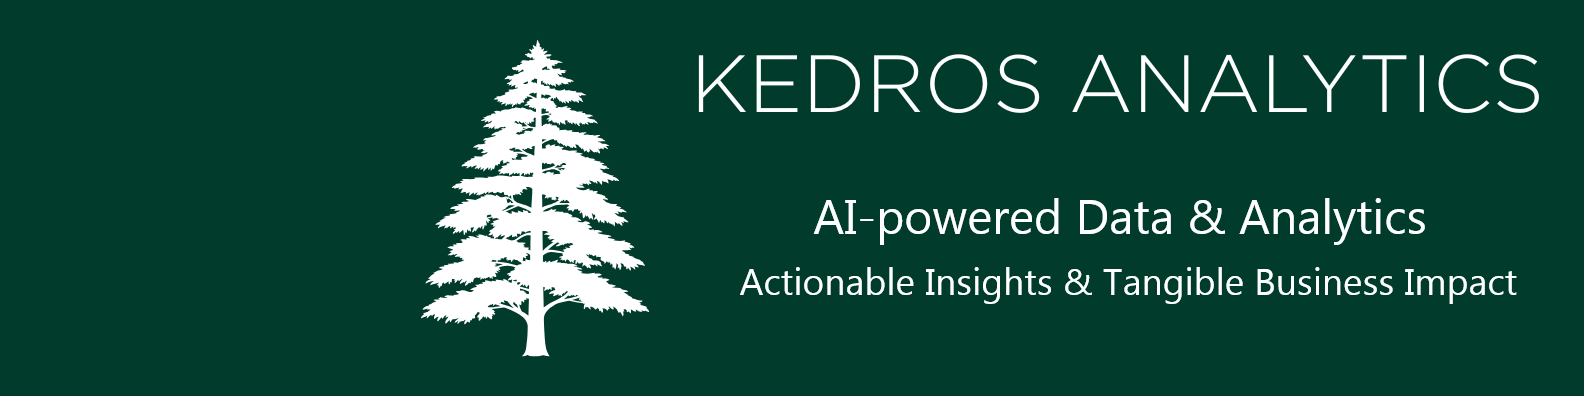
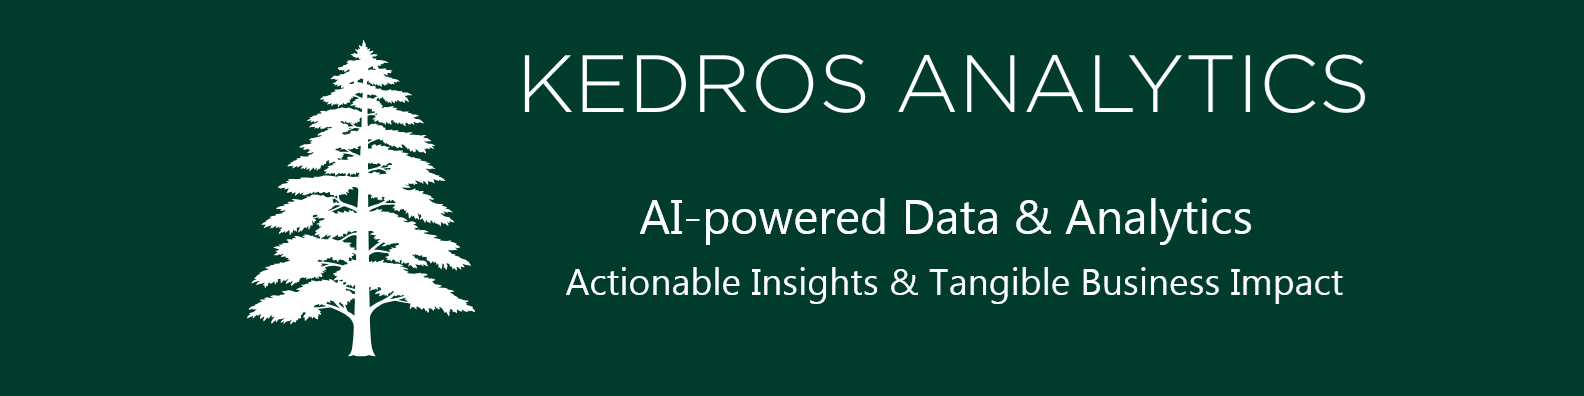
added hero section and rearranged other sections

Changed region(s): [[0.1547, 0.1212, 0.9899, 0.9091]]

diff --git a/index.html b/index.html
@@ -29,6 +29,18 @@
 	</div>
 </header>
 
+<!-- Hero -->
+<section class="k-hero">
+	<div class="k-container k-hero-container">
+		<h1>Turn your data into your sharpest competitive edge</h1>
+		<p>I help organizations build reliable data foundations, surface the insights that matter, and put AI to work &mdash; so every decision is faster, smarter, and backed by evidence.</p>
+		<div class="k-hero-actions">
+			<a class="k-btn k-btn--outline" href="https://outlook.office.com/bookwithme/user/[email redacted]/meetingtype/SVRwCe7HMUGxuT6WGxi68g2?anonymous&amp;ep=mlink">Book a Call</a>
+			<a class="k-btn k-btn--outline" href="assets/Value Proposition.pdf">Download the Value Proposition (PDF)</a>
+		</div>
+	</div>
+</section>
+
 <!-- Main -->
 <div id="main">
 
@@ -55,72 +67,11 @@
 	<hr class="k-divider" />
 
 	<!-- About -->
-	<section class="k-section">
+	<section class="k-section k-section--tint">
 		<div class="k-container">
 			<div class="k-about">
 				<img class="k-avatar" src="images/Matt_highlights.jpg" alt="Matt Protopapas" />
 				<p>I'm <a href="images/Matt_highlights.jpg">Matt Protopapas</a>, an independent Data &amp; AI consultant and founder of Kedros Analytics. With extensive experience delivering analytics, business intelligence, and data platform solutions for European organizations, I help businesses turn data into actionable insights and measurable value.</p>
-			</div>
-		</div>
-	</section>
-
-	<!-- CTA -->
-	<section class="k-section k-section--tint k-cta">
-		<div class="k-container">
-			<a class="k-btn" href="assets/Value Proposition.pdf">Download the Value Proposition (PDF)</a>
-		</div>
-	</section>
-
-	<hr class="k-divider" />
-
-	<!-- Corporate Insights + Free Tools, side by side -->
-	<section class="k-section">
-		<div class="k-container">
-			<div class="k-two-col">
-
-				<!-- Corporate insights -->
-				<div class="k-col k-col-insights">
-					<div class="k-col-head">
-						<h2>Corporate insights</h2>
-						<!--<p>Effective data management practices have always been a prerequisite for generating meaningful insights through reporting and analytics. In the AI era, their importance is even greater, as the quality of outcomes delivered by AI agents and bots depends heavily on the quality of the underlying data.</p>
-						<p>By completing the 10 multiple-choice questions below, you can download my free "<i>5+1 Barriers to Data-Driven Decision Making</i>" e-book and receive a personalized list of recommendations for your company.</p>-->
-					</div>
-					<div class="k-insights-form">
-						<iframe width="100%" height="610" src="https://forms.office.com/Pages/ResponsePage.aspx?id=HijW11PShkS83DK9VRjiZALLVxnypjBCufpXbAo__X5URFY5ME5KVktIQTZaT0o0S0Y3MzdSRDQ5QS4u&embed=true" frameborder="0" marginwidth="0" marginheight="0" style="border: none; max-width:100%; max-height:100vh" allowfullscreen webkitallowfullscreen mozallowfullscreen msallowfullscreen></iframe>
-					</div>
-				</div>
-
-				<!-- Free tools for SMEs -->
-				<div class="k-col k-col-tools">
-					<div class="k-col-head">
-						<h2>Free tools for SMEs</h2>
-						<p>Practical, ready-to-use Python &amp; Excel tools you can download and adapt to your own business today.</p>
-					</div>
-					<div class="k-tool-list">
-						<a class="k-tool-card" href="https://github.com/MattProtopapas/Inventory-Control-Demo">
-							<img src="images/chart_arrow.jpg" alt="" />
-							<div>
-								<h3>Inventory Control</h3>
-								<p>Python &amp; Excel demo to optimize the inventory in your warehouses.</p>
-							</div>
-						</a>
-						<a class="k-tool-card" href="https://github.com/MattProtopapas/Market-Basket-Analysis-Demo">
-							<img src="images/brain.jpg" alt="" />
-							<div>
-								<h3>Market Basket Analysis</h3>
-								<p>Python &amp; Excel demo to detect which products are bought together.</p>
-							</div>
-						</a>
-						<a class="k-tool-card" href="https://github.com/MattProtopapas/Leads-Valuation">
-							<img src="images/mag_glass.jpg" alt="" />
-							<div>
-								<h3>Leads Valuation</h3>
-								<p>Python &amp; Excel demo to evaluate leads and opportunities.</p>
-							</div>
-						</a>
-					</div>
-				</div>
-
 			</div>
 		</div>
 	</section>
@@ -154,7 +105,7 @@
 	<hr class="k-divider" />
 
 	<!-- Recent Projects -->
-	<section class="k-section k-section--tint">
+	<section class="k-section k-section--tint" id="projects">
 		<div class="k-container">
 			<div class="k-section-head">
 				<span class="k-kicker">Track record</span>
@@ -207,6 +158,60 @@
 					<p class="k-person">Angelos Paidas</p>
 					<p class="k-role">Head of e-Mobility Products &amp; Services, Europe 500 Energy</p>
 				</div>
+			</div>
+		</div>
+	</section>
+
+	<hr class="k-divider" />
+
+	<!-- Corporate Insights + Free Tools, side by side -->
+	<section class="k-section k-section--tint">
+		<div class="k-container">
+			<div class="k-two-col">
+
+				<!-- Corporate insights -->
+				<div class="k-col k-col-insights">
+					<div class="k-col-head">
+						<h2>Corporate insights</h2>
+						<!--<p>Effective data management practices have always been a prerequisite for generating meaningful insights through reporting and analytics. In the AI era, their importance is even greater, as the quality of outcomes delivered by AI agents and bots depends heavily on the quality of the underlying data.</p>
+						<p>By completing the 10 multiple-choice questions below, you can download my free "<i>5+1 Barriers to Data-Driven Decision Making</i>" e-book and receive a personalized list of recommendations for your company.</p>-->
+					</div>
+					<div class="k-insights-form">
+						<iframe width="100%" height="610" src="https://forms.office.com/Pages/ResponsePage.aspx?id=HijW11PShkS83DK9VRjiZALLVxnypjBCufpXbAo__X5URFY5ME5KVktIQTZaT0o0S0Y3MzdSRDQ5QS4u&embed=true" frameborder="0" marginwidth="0" marginheight="0" style="border: none; max-width:100%; max-height:100vh" allowfullscreen webkitallowfullscreen mozallowfullscreen msallowfullscreen></iframe>
+					</div>
+				</div>
+
+				<!-- Free tools for SMEs -->
+				<div class="k-col k-col-tools">
+					<div class="k-col-head">
+						<h2>Free tools for SMEs</h2>
+						<p>Practical, ready-to-use Python &amp; Excel tools you can download and adapt to your own business today.</p>
+					</div>
+					<div class="k-tool-list">
+						<a class="k-tool-card" href="https://github.com/MattProtopapas/Inventory-Control-Demo">
+							<img src="images/chart_arrow.jpg" alt="" />
+							<div>
+								<h3>Inventory Control</h3>
+								<p>Python &amp; Excel demo to optimize the inventory in your warehouses.</p>
+							</div>
+						</a>
+						<a class="k-tool-card" href="https://github.com/MattProtopapas/Market-Basket-Analysis-Demo">
+							<img src="images/brain.jpg" alt="" />
+							<div>
+								<h3>Market Basket Analysis</h3>
+								<p>Python &amp; Excel demo to detect which products are bought together.</p>
+							</div>
+						</a>
+						<a class="k-tool-card" href="https://github.com/MattProtopapas/Leads-Valuation">
+							<img src="images/mag_glass.jpg" alt="" />
+							<div>
+								<h3>Leads Valuation</h3>
+								<p>Python &amp; Excel demo to evaluate leads and opportunities.</p>
+							</div>
+						</a>
+					</div>
+				</div>
+
 			</div>
 		</div>
 	</section>

diff --git a/assets/css/custom.css b/assets/css/custom.css
@@ -72,6 +72,86 @@
 		margin: 0 auto;
 	}
 
+/* Hero */
+
+.k-hero {
+	background: var(--brand-tint);
+	padding: 4.5em 0;
+}
+
+.k-hero-container {
+	max-width: none;
+	text-align: center;
+}
+
+.k-hero h1 {
+	color: var(--brand);
+	font-size: 1.7em;
+	font-weight: 800;
+	line-height: 1.3;
+	margin: 0 0 0.5em 0;
+	white-space: nowrap;
+}
+
+.k-hero p {
+	max-width: 44em;
+	margin: 0 auto 1.75em auto;
+	color: var(--muted);
+	font-size: 1.1em;
+	line-height: 1.6;
+}
+
+	@media screen and (max-width: 980px) {
+		.k-hero h1 {
+			font-size: 1.4em;
+		}
+	}
+
+.k-hero-actions {
+	display: flex;
+	justify-content: center;
+	flex-wrap: wrap;
+	gap: 1em;
+}
+
+.k-btn--outline {
+	background: #ffffff;
+	border: 2px solid var(--brand);
+	color: var(--brand) !important;
+	box-shadow: none;
+	padding: calc(0.95em - 2px) calc(2.1em - 2px);
+}
+
+	.k-btn--outline:hover {
+		background: var(--brand);
+		color: #ffffff !important;
+		transform: translateY(-2px);
+	}
+
+	@media screen and (max-width: 736px) {
+		.k-hero {
+			padding: 3.5em 0;
+		}
+
+		.k-hero h1 {
+			font-size: 1.3em;
+			white-space: normal;
+		}
+
+		.k-hero p {
+			font-size: 1em;
+		}
+
+		.k-hero-actions {
+			flex-direction: column;
+			align-items: stretch;
+		}
+
+		.k-hero-actions .k-btn {
+			text-align: center;
+		}
+	}
+
 /* Sections & spacing */
 
 .k-section {
@@ -225,16 +305,6 @@
 		.k-about p {
 			text-align: justify;
 		}
-	}
-
-/* CTA banner */
-
-.k-cta {
-	text-align: center;
-}
-
-	.k-cta a.k-btn {
-		font-size: 1.05em;
 	}
 
 /* Two-column layout: Corporate Insights / Free Tools */